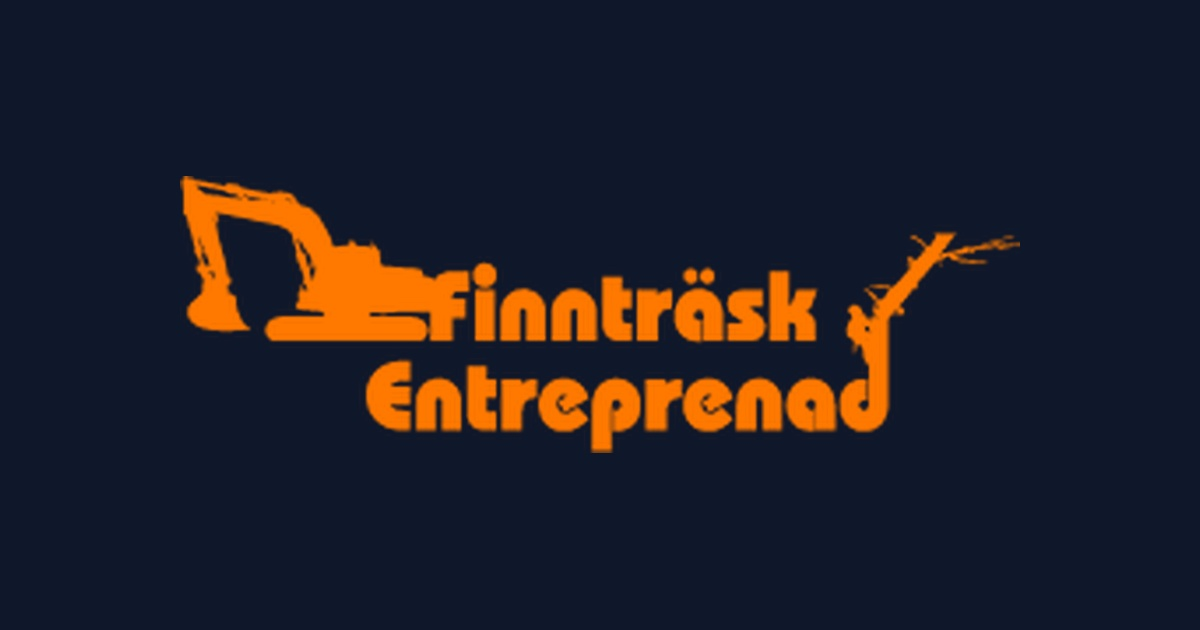
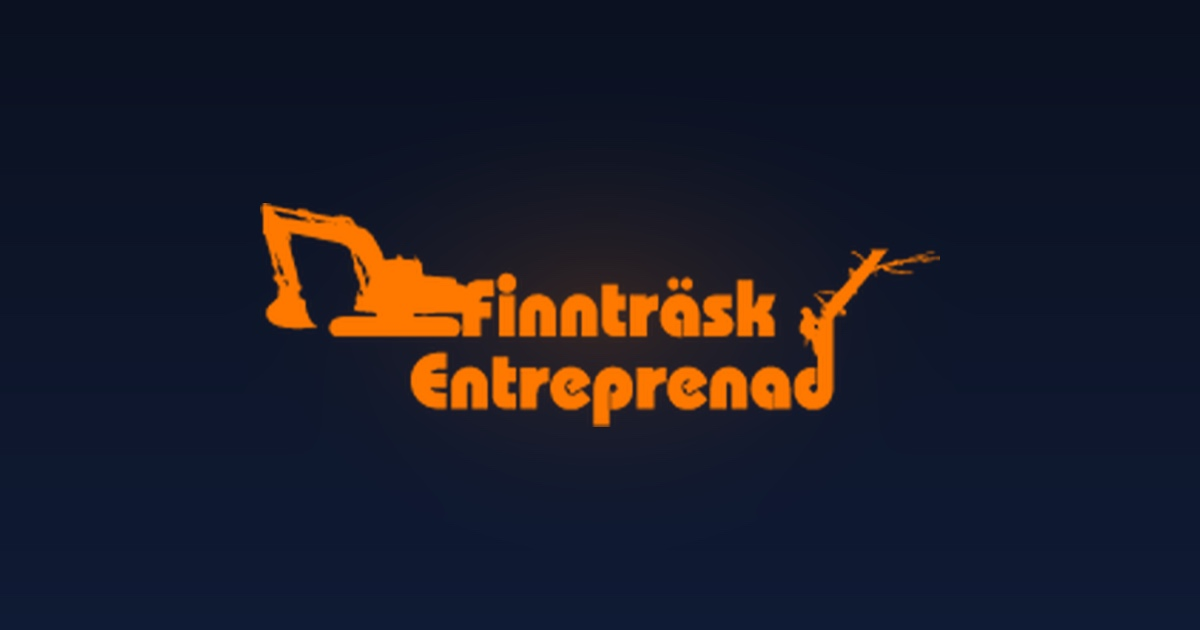
hej

Changed region(s): [[0.1542, 0.2714, 0.8633, 0.7238]]

diff --git a/index.html b/index.html
@@ -23,8 +23,8 @@
   <title>Finnträsk Entreprenad | Mark och Schaktarbeten i Västerbotten</title>
   <meta name="description" content="Finnträsk Entreprenad utför allt inom mark och schaktarbeten, tomtplanering, anläggning, grundarbeten och maskintjänster i Västerbotten med omnejd. Begär offert!" />
   <meta name="robots" content="index, follow" />
-  <meta name="image" content="https://raw.githubusercontent.com/filipmrbg/finntraskentreprenad-demo/main/public/og-image.png" />
-  <link rel="image_src" href="https://raw.githubusercontent.com/filipmrbg/finntraskentreprenad-demo/main/public/og-image.png" />
+  <meta name="image" content="https://finntraskentreprenad-demo.vercel.app/og-image.png" />
+  <link rel="image_src" href="https://finntraskentreprenad-demo.vercel.app/og-image.png" />
 
   <!-- Open Graph / Link Preview (Critical for iMessage, SMS & Social Media) -->
   <meta property="og:type" content="website" />
@@ -32,8 +32,8 @@
   <meta property="og:title" content="Finnträsk Entreprenad | Mark och Schaktarbeten i Västerbotten" />
   <meta property="og:description" content="Finnträsk Entreprenad utför allt inom mark och schaktarbeten, tomtplanering, anläggning, grundarbeten och maskintjänster i Västerbotten med omnejd. Begär offert!" />
   <meta property="og:url" content="https://finntraskentreprenad-demo.vercel.app" />
-  <meta property="og:image" content="https://raw.githubusercontent.com/filipmrbg/finntraskentreprenad-demo/main/public/og-image.png" />
-  <meta property="og:image:secure_url" content="https://raw.githubusercontent.com/filipmrbg/finntraskentreprenad-demo/main/public/og-image.png" />
+  <meta property="og:image" content="https://finntraskentreprenad-demo.vercel.app/og-image.png" />
+  <meta property="og:image:secure_url" content="https://finntraskentreprenad-demo.vercel.app/og-image.png" />
   <meta property="og:image:type" content="image/png" />
   <meta property="og:image:width" content="1200" />
   <meta property="og:image:height" content="630" />
@@ -44,7 +44,7 @@
   <meta name="twitter:card" content="summary_large_image" />
   <meta name="twitter:title" content="Finnträsk Entreprenad | Mark och Schaktarbeten i Västerbotten" />
   <meta name="twitter:description" content="Finnträsk Entreprenad utför allt inom mark och schaktarbeten, tomtplanering, anläggning och maskintjänster i Västerbotten." />
-  <meta name="twitter:image" content="https://raw.githubusercontent.com/filipmrbg/finntraskentreprenad-demo/main/public/og-image.png" />
+  <meta name="twitter:image" content="https://finntraskentreprenad-demo.vercel.app/og-image.png" />
   <meta name="twitter:image:alt" content="Finnträsk Entreprenad Logotyp" />
 
   <!-- JSON-LD: ConstructionBusiness -->
@@ -56,7 +56,7 @@
       "description": "Familjeföretaget i Västerbotten som gör visioner till verklighet. Vi utför allt inom mark och schaktarbeten, anläggning, tomtplanering, dikesgrävning, trädfällning med skylift och maskintjänster med högsta kvalitet och lokal förankring.",
       "url": "https://finntraskentreprenad-demo.vercel.app",
       "logo": "https://finntraskentreprenad-demo.vercel.app/logo.png",
-      "image": "https://raw.githubusercontent.com/filipmrbg/finntraskentreprenad-demo/main/public/og-image.png",
+      "image": "https://finntraskentreprenad-demo.vercel.app/og-image.png",
       "telephone": ["070 588 40 32", "070 588 40 42"],
       "email": "info@finntraskentreprenad.se",
       "taxID": "556854-3465",

diff --git a/src/hooks/usePageTitle.ts b/src/hooks/usePageTitle.ts
@@ -41,7 +41,7 @@ export function usePageTitle(title: string, description?: string) {
       ? window.location.origin
       : 'https://finntraskentreprenad-demo.vercel.app';
     const absoluteUrl = `${origin}${pathname === '/' ? '' : pathname}`;
-    const ogImageUrl = 'https://raw.githubusercontent.com/filipmrbg/finntraskentreprenad-demo/main/public/og-image.png';
+    const ogImageUrl = `${origin}/og-image.png`;
 
     let canonical = document.querySelector('link[rel="canonical"]');
     if (canonical) {
@@ -66,10 +66,20 @@ export function usePageTitle(title: string, description?: string) {
       ogImage.setAttribute('content', ogImageUrl);
       document.head.appendChild(ogImage);
     }
+
+    const ogImageSecure = document.querySelector('meta[property="og:image:secure_url"]');
+    if (ogImageSecure) ogImageSecure.setAttribute('content', ogImageUrl);
+
     let twitterImage = document.querySelector('meta[name="twitter:image"]');
     if (twitterImage) {
       twitterImage.setAttribute('content', ogImageUrl);
     }
+
+    const metaImage = document.querySelector('meta[name="image"]');
+    if (metaImage) metaImage.setAttribute('content', ogImageUrl);
+
+    const linkImageSrc = document.querySelector('link[rel="image_src"]');
+    if (linkImageSrc) linkImageSrc.setAttribute('href', ogImageUrl);
 
   }, [title, description, pathname]);
 }

diff --git a/scripts/generate_og_images.py b/scripts/generate_og_images.py
@@ -1,0 +1,319 @@
+#!/usr/bin/env python3
+"""
+Generate standard OpenGraph 1200x630 banner images for Finnträsk Entreprenad.
+Supports both PIL (Pillow) and fallback via Python standard library + macOS sips.
+"""
+import os
+import sys
+import math
+import struct
+import subprocess
+
+SCRIPT_DIR = os.path.dirname(os.path.abspath(__file__))
+PROJECT_DIR = os.path.dirname(SCRIPT_DIR)
+PUBLIC_DIR = os.path.join(PROJECT_DIR, "public")
+LOGO_PATH = os.path.join(PUBLIC_DIR, "logo.png")
+OUT_PNG = os.path.join(PUBLIC_DIR, "og-image.png")
+OUT_JPG = os.path.join(PUBLIC_DIR, "og-image.jpg")
+
+WIDTH = 1200
+HEIGHT = 630
+LOGO_TARGET_WIDTH = 680
+
+# Dark Navy / Slate gradient background: #0B1120 to #0F1A34
+# Subtle brand orange radial glow in center: #FF7900
+BRAND_ORANGE = (255, 121, 0)
+TOP_COLOR = (11, 17, 32)      # #0B1120
+BOTTOM_COLOR = (15, 26, 52)   # #0F1A34
+
+def generate_with_pil():
+    from PIL import Image, ImageDraw, ImageFilter
+
+    print("Generating OG banner using PIL / Pillow...")
+    logo = Image.open(LOGO_PATH).convert("RGBA")
+    
+    # Proportional resize
+    aspect = logo.height / logo.width
+    new_h = int(LOGO_TARGET_WIDTH * aspect)
+    logo_resized = logo.resize((LOGO_TARGET_WIDTH, new_h), Image.Resampling.LANCZOS)
+
+    # Base canvas with vertical gradient
+    base = Image.new("RGBA", (WIDTH, HEIGHT))
+    for y in range(HEIGHT):
+        ratio = y / (HEIGHT - 1)
+        r = int(TOP_COLOR[0] * (1 - ratio) + BOTTOM_COLOR[0] * ratio)
+        g = int(TOP_COLOR[1] * (1 - ratio) + BOTTOM_COLOR[1] * ratio)
+        b = int(TOP_COLOR[2] * (1 - ratio) + BOTTOM_COLOR[2] * ratio)
+        for x in range(WIDTH):
+            base.putpixel((x, y), (r, g, b, 255))
+
+    # Add soft radial brand glow in center
+    glow = Image.new("RGBA", (WIDTH, HEIGHT), (0, 0, 0, 0))
+    glow_draw = ImageDraw.Draw(glow)
+    center_x, center_y = WIDTH // 2, HEIGHT // 2
+    max_radius = 420
+    
+    for radius in range(max_radius, 0, -10):
+        alpha = int(28 * (1 - (radius / max_radius) ** 1.5))
+        if alpha > 0:
+            glow_draw.ellipse(
+                (center_x - radius, center_y - int(radius * 0.65),
+                 center_x + radius, center_y + int(radius * 0.65)),
+                fill=(BRAND_ORANGE[0], BRAND_ORANGE[1], BRAND_ORANGE[2], alpha)
+            )
+
+    glow = glow.filter(ImageFilter.GaussianBlur(radius=30))
+    base.alpha_composite(glow)
+
+    # Center the logo
+    pos_x = (WIDTH - LOGO_TARGET_WIDTH) // 2
+    pos_y = (HEIGHT - new_h) // 2
+    base.alpha_composite(logo_resized, (pos_x, pos_y))
+
+    # Save PNG
+    rgb_img = base.convert("RGB")
+    rgb_img.save(OUT_PNG, "PNG", optimize=True)
+    print(f"Saved: {OUT_PNG}")
+
+    # Save JPEG
+    rgb_img.save(OUT_JPG, "JPEG", quality=95, optimize=True)
+    print(f"Saved: {OUT_JPG}")
+
+def generate_with_sips_python():
+    print("Generating OG banner using Python standard library + macOS sips...")
+    temp_logo_png = os.path.join(PUBLIC_DIR, "_temp_logo_resized.png")
+    temp_logo_bmp = os.path.join(PUBLIC_DIR, "_temp_logo.bmp")
+    temp_ppm = os.path.join(PUBLIC_DIR, "_temp_og.ppm")
+
+    try:
+        # 1. Resample logo with sips to exact target width
+        subprocess.run([
+            "sips", "--resampleWidth", str(LOGO_TARGET_WIDTH),
+            LOGO_PATH, "--out", temp_logo_png
+        ], check=True, stdout=subprocess.DEVNULL)
+
+        # 2. Convert resampled logo to 32-bit BMP
+        subprocess.run([
+            "sips", "-s", "format", "bmp",
+            temp_logo_png, "--out", temp_logo_bmp
+        ], check=True, stdout=subprocess.DEVNULL)
+
+        # 3. Read BMP pixels
+        with open(temp_logo_bmp, "rb") as f:
+            bmp_data = f.read()
+
+        offset, = struct.unpack_from("<I", bmp_data, 10)
+        lw, lh = struct.unpack_from("<ii", bmp_data, 18)
+        is_top_down = lh < 0
+        lh = abs(lh)
+        
+        logo_pixels = bmp_data[offset:]
+        
+        # 4. Generate 1200x630 canvas in memory
+        center_x = WIDTH / 2.0
+        center_y = HEIGHT / 2.0
+        logo_x_start = (WIDTH - lw) // 2
+        logo_y_start = (HEIGHT - lh) // 2
+        
+        glow_radius_x = 380.0
+        glow_radius_y = 240.0
+        glow_color = BRAND_ORANGE
+
+        out_bytes = bytearray(WIDTH * HEIGHT * 3)
+
+        for y in range(HEIGHT):
+            # Vertical gradient: TOP_COLOR to BOTTOM_COLOR
+            t = y / (HEIGHT - 1)
+            bg_r = TOP_COLOR[0] * (1.0 - t) + BOTTOM_COLOR[0] * t
+            bg_g = TOP_COLOR[1] * (1.0 - t) + BOTTOM_COLOR[1] * t
+            bg_b = TOP_COLOR[2] * (1.0 - t) + BOTTOM_COLOR[2] * t
+
+            dy = (y - center_y) / glow_radius_y
+            dy_sq = dy * dy
+
+            row_offset = y * WIDTH * 3
+
+            for x in range(WIDTH):
+                dx = (x - center_x) / glow_radius_x
+                dist_sq = dx * dx + dy_sq
+
+                # Soft radial brand glow
+                if dist_sq < 1.0:
+                    glow_intensity = (1.0 - math.sqrt(dist_sq)) ** 1.8 * 0.16
+                    cur_r = bg_r * (1.0 - glow_intensity) + glow_color[0] * glow_intensity
+                    cur_g = bg_g * (1.0 - glow_intensity) + glow_color[1] * glow_intensity
+                    cur_b = bg_b * (1.0 - glow_intensity) + glow_color[2] * glow_intensity
+                else:
+                    cur_r, cur_g, cur_b = bg_r, bg_g, bg_b
+
+                # Check if within logo bounds
+                lx = x - logo_x_start
+                ly = y - logo_y_start
+                if 0 <= lx < lw and 0 <= ly < lh:
+                    # In BMP top-down or bottom-up
+                    bmp_y = ly if is_top_down else (lh - 1 - ly)
+                    pix_idx = (bmp_y * lw + lx) * 4
+                    b = logo_pixels[pix_idx]
+                    g = logo_pixels[pix_idx + 1]
+                    r = logo_pixels[pix_idx + 2]
+                    a = logo_pixels[pix_idx + 3]
+
+                    if a > 0:
+                        alpha = a / 255.0
+                        cur_r = cur_r * (1.0 - alpha) + r * alpha
+                        cur_g = cur_g * (1.0 - alpha) + g * alpha
+                        cur_b = cur_b * (1.0 - alpha) + b * alpha
+
+                p_idx = row_offset + x * 3
+                out_bytes[p_idx] = min(255, max(0, int(round(cur_r))))
+                out_bytes[p_idx + 1] = min(255, max(0, int(round(cur_g))))
+                out_bytes[p_idx + 2] = min(255, max(0, int(round(cur_b))))
+
+        # 5. Write PPM file
+        ppm_header = f"P6\n{WIDTH} {HEIGHT}\n255\n".encode("ascii")
+        with open(temp_ppm, "wb") as f:
+            f.write(ppm_header)
+            f.write(out_bytes)
+
+        # 6. Convert PPM to PNG and JPEG (quality 95) with sips
+        subprocess.run([
+            "sips", "-s", "format", "png",
+            temp_ppm, "--out", OUT_PNG
+        ], check=True, stdout=subprocess.DEVNULL)
+        print(f"Saved: {OUT_PNG}")
+
+        subprocess.run([
+            "sips", "-s", "format", "jpeg",
+            "-s", "formatOptions", "95",
+            temp_ppm, "--out", OUT_JPG
+        ], check=True, stdout=subprocess.DEVNULL)
+        print(f"Saved: {OUT_JPG}")
+
+    finally:
+        for tmp in [temp_logo_png, temp_logo_bmp, temp_ppm]:
+            if os.path.exists(tmp):
+                try:
+                    os.remove(tmp)
+                except Exception:
+                    pass
+
+def generate_square_og():
+    sq_w = 1080
+    sq_h = 1080
+    logo_w = 780
+    out_sq_png = os.path.join(PUBLIC_DIR, "og-square.png")
+    out_sq_jpg = os.path.join(PUBLIC_DIR, "og-square.jpg")
+
+    temp_logo_png = os.path.join(PUBLIC_DIR, "_temp_sq_logo.png")
+    temp_logo_bmp = os.path.join(PUBLIC_DIR, "_temp_sq_logo.bmp")
+    temp_ppm = os.path.join(PUBLIC_DIR, "_temp_sq.ppm")
+
+    try:
+        subprocess.run([
+            "sips", "--resampleWidth", str(logo_w),
+            LOGO_PATH, "--out", temp_logo_png
+        ], check=True, stdout=subprocess.DEVNULL)
+
+        subprocess.run([
+            "sips", "-s", "format", "bmp",
+            temp_logo_png, "--out", temp_logo_bmp
+        ], check=True, stdout=subprocess.DEVNULL)
+
+        with open(temp_logo_bmp, "rb") as f:
+            bmp_data = f.read()
+
+        offset, = struct.unpack_from("<I", bmp_data, 10)
+        lw, lh = struct.unpack_from("<ii", bmp_data, 18)
+        is_top_down = lh < 0
+        lh = abs(lh)
+        logo_pixels = bmp_data[offset:]
+
+        center_x = sq_w / 2.0
+        center_y = sq_h / 2.0
+        logo_x_start = (sq_w - lw) // 2
+        logo_y_start = (sq_h - lh) // 2
+
+        glow_radius = 460.0
+        glow_color = BRAND_ORANGE
+
+        out_bytes = bytearray(sq_w * sq_h * 3)
+
+        for y in range(sq_h):
+            t = y / (sq_h - 1)
+            bg_r = TOP_COLOR[0] * (1.0 - t) + BOTTOM_COLOR[0] * t
+            bg_g = TOP_COLOR[1] * (1.0 - t) + BOTTOM_COLOR[1] * t
+            bg_b = TOP_COLOR[2] * (1.0 - t) + BOTTOM_COLOR[2] * t
+
+            dy = (y - center_y) / glow_radius
+            dy_sq = dy * dy
+            row_offset = y * sq_w * 3
+
+            for x in range(sq_w):
+                dx = (x - center_x) / glow_radius
+                dist_sq = dx * dx + dy_sq
+
+                if dist_sq < 1.0:
+                    glow_intensity = (1.0 - math.sqrt(dist_sq)) ** 1.8 * 0.18
+                    cur_r = bg_r * (1.0 - glow_intensity) + glow_color[0] * glow_intensity
+                    cur_g = bg_g * (1.0 - glow_intensity) + glow_color[1] * glow_intensity
+                    cur_b = bg_b * (1.0 - glow_intensity) + glow_color[2] * glow_intensity
+                else:
+                    cur_r, cur_g, cur_b = bg_r, bg_g, bg_b
+
+                lx = x - logo_x_start
+                ly = y - logo_y_start
+                if 0 <= lx < lw and 0 <= ly < lh:
+                    bmp_y = ly if is_top_down else (lh - 1 - ly)
+                    pix_idx = (bmp_y * lw + lx) * 4
+                    b = logo_pixels[pix_idx]
+                    g = logo_pixels[pix_idx + 1]
+                    r = logo_pixels[pix_idx + 2]
+                    a = logo_pixels[pix_idx + 3]
+
+                    if a > 0:
+                        alpha = a / 255.0
+                        cur_r = cur_r * (1.0 - alpha) + r * alpha
+                        cur_g = cur_g * (1.0 - alpha) + g * alpha
+                        cur_b = cur_b * (1.0 - alpha) + b * alpha
+
+                p_idx = row_offset + x * 3
+                out_bytes[p_idx] = min(255, max(0, int(round(cur_r))))
+                out_bytes[p_idx + 1] = min(255, max(0, int(round(cur_g))))
+                out_bytes[p_idx + 2] = min(255, max(0, int(round(cur_b))))
+
+        ppm_header = f"P6\n{sq_w} {sq_h}\n255\n".encode("ascii")
+        with open(temp_ppm, "wb") as f:
+            f.write(ppm_header)
+            f.write(out_bytes)
+
+        subprocess.run([
+            "sips", "-s", "format", "png",
+            temp_ppm, "--out", out_sq_png
+        ], check=True, stdout=subprocess.DEVNULL)
+        print(f"Saved: {out_sq_png}")
+
+        subprocess.run([
+            "sips", "-s", "format", "jpeg",
+            "-s", "formatOptions", "95",
+            temp_ppm, "--out", out_sq_jpg
+        ], check=True, stdout=subprocess.DEVNULL)
+        print(f"Saved: {out_sq_jpg}")
+
+    finally:
+        for tmp in [temp_logo_png, temp_logo_bmp, temp_ppm]:
+            if os.path.exists(tmp):
+                try:
+                    os.remove(tmp)
+                except Exception:
+                    pass
+
+def main():
+    try:
+        import PIL
+        generate_with_pil()
+    except ImportError:
+        generate_with_sips_python()
+    generate_square_og()
+
+if __name__ == "__main__":
+    main()
